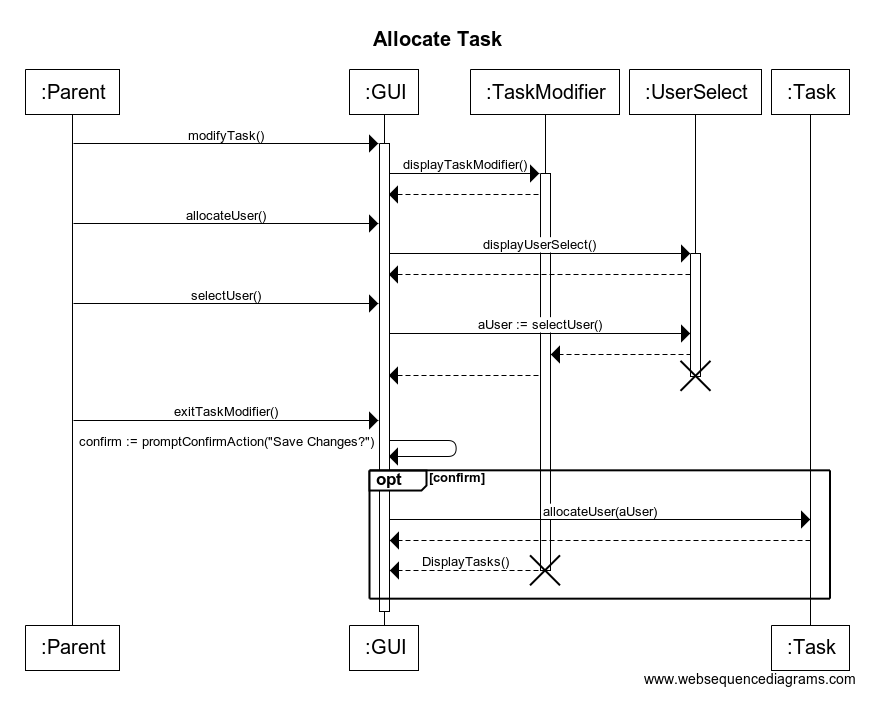
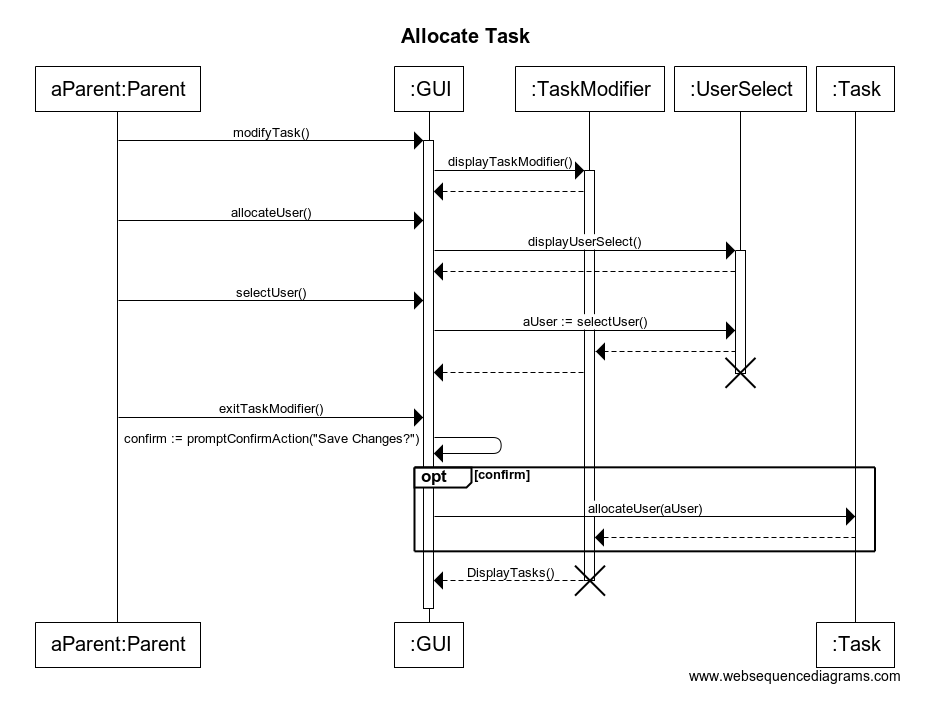
Fixed sequence diagram 1

diff --git a/Deliverables/Sequence Diagrams/SequenceDiagram1.md b/Deliverables/Sequence Diagrams/SequenceDiagram1.md
@@ -1,22 +1,25 @@
 title Allocate Task
 
-":Parent"->+":GUI": modifyTask()
+"aParent:Parent"->+":GUI": modifyTask()
 ":GUI"->+":TaskModifier" : displayTaskModifier()
 ":TaskModifier"-->":GUI":
-":Parent"->":GUI" : allocateUser()
+"aParent:Parent"->":GUI" : allocateUser()
 ":GUI"->+":UserSelect" : displayUserSelect()
 ":UserSelect"-->":GUI":
-":Parent"-> ":GUI" : selectUser()
+"aParent:Parent"-> ":GUI" : selectUser()
 ":GUI"->":UserSelect":  aUser := selectUser()
 ":UserSelect"-->":TaskModifier":
 ":TaskModifier"-->":GUI":
 destroy ":UserSelect"
-":Parent"->":GUI": exitTaskModifier()
+"aParent:Parent"->":GUI": exitTaskModifier()
 ":GUI"->":GUI" : confirm := promptConfirmAction("Save Changes?")
 
 opt confirm
+
     ":GUI"->":Task" : allocateUser(aUser)
-    ":Task"-->":GUI":
-    ":TaskModifier"-->":GUI" : DisplayTasks()
-    destroy ":TaskModifier"
+    ":Task"-->":TaskModifier":
+
 end
+
+":TaskModifier"-->":GUI" : DisplayTasks()
+destroy ":TaskModifier"
